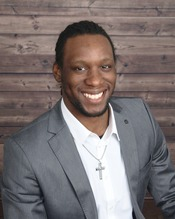
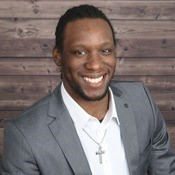
font & image resizing to be more acurate to challenge specifics

diff --git a/src/css/App.css b/src/css/App.css
@@ -30,22 +30,25 @@
 
 .read-intructions {
   line-height: 1;
-
+  font-size: 14px;
   color: #888;
 }
 
-h1 {
+p1 {
   font-size: 1.5em;
-  line-height: 0.1;
+  font-weight: 700;
+  line-height: 1;
 }
 
-h2 {
-  font-size: 1em;
-  color: hsl(75, 94%, 57%);
-  line-height: 0.1;
-}
-
-h3 {
+p2 {
   font-size: 14px;
-  line-height: 0.1;
+  font-weight: 600;
+  color: hsl(75, 94%, 57%);
+  line-height: 3;
+}
+
+p3 {
+  font-weight: 500;
+  font-size: 14px;
+  line-height: 4;
 }

diff --git a/src/App.jsx b/src/App.jsx
@@ -14,9 +14,9 @@ function App() {
             <img src={avatarImage} className="avatar" alt="Avatar Image" />
           </a>
         </div>
-        <h1>Noble Axiom</h1>
-        <h2>Atlanta, United States</h2>
-        <h3>Fullstack Developer and advid reader</h3>
+        <p1>Noble Axiom</p1>
+        <p2>Atlanta, United States</p2>
+        <p3>Fullstack Developer and advid reader</p3>
 
         <Buttons />
 

diff --git a/src/css/Buttons.css b/src/css/Buttons.css
@@ -17,7 +17,7 @@ button {
   border: 1px solid transparent;
   padding: 0.6em 1.2em;
   font-size: 14px;
-  font-weight: 500;
+  font-weight: 600;
   font-family: inherit;
   background-color: hsl(0, 0%, 12%);
   cursor: pointer;
